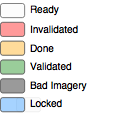
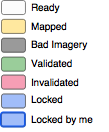
new legend

diff --git a/client/app/services/style.service.js b/client/app/services/style.service.js
@@ -25,10 +25,11 @@
         });
 
         var FILL_COLOUR_READY = [223, 223, 223, 0.1];//very light grey, 0.1 opacity
-        var FILL_COLOUR_INVALIDATED = [255, 0, 0, 0.4];//red, 0.4 opacity
-        var FILL_COLOUR_MAPPED = [255, 165, 0, 0.4];//orange, 0.4 opacity
+        var FILL_COLOUR_INVALIDATED = [233, 11, 67, 0.4];//red, 0.4 opacity
+        var FILL_COLOUR_MAPPED = [255, 198, 12, 0.4];//orange, 0.4 opacity
         var FILL_COLOUR_VALIDATED = [0, 128, 0, 0.4];//green, 0.4 opacity
-        var FILL_COLOUR_LOCKED = [30, 144, 255, 0.4];//blue, 0.4 opacity
+        var FILL_COLOUR_LOCKED_FOR_MAPPING = [18, 89, 240, 0.4];//blue, 0.4 opacity
+        var FILL_COLOUR_LOCKED_FOR_VALIDATION = [18, 89, 240, 0.4];//blue, 0.4 opacity
         var FILL_COLOUR_BADIMAGERY = [0, 0, 0, 0.4];//black, 0.4 opacity
 
         var STROKE_COLOUR = [84, 84, 84, 0.7];//grey, 0.7 opacity
@@ -67,8 +68,11 @@
             // calculate the fill colour and opacity settings based on status, use rgba because this is the way to
             // set opacity in OL3, but also better for cross browser than named colors
             var fillColor = null;
-            if (status === 'LOCKED_FOR_MAPPING' || status === 'LOCKED_FOR_VALIDATION') {
-                fillColor = FILL_COLOUR_LOCKED;
+            if (status === 'LOCKED_FOR_MAPPING') {
+                fillColor = FILL_COLOUR_LOCKED_FOR_MAPPING;
+            }
+            else if (status === 'LOCKED_FOR_VALIDATION') {
+                fillColor = FILL_COLOUR_LOCKED_FOR_VALIDATION;
             }
             else if (status === 'READY') {
                 fillColor = FILL_COLOUR_READY;
@@ -125,10 +129,10 @@
         function getLockedByCurrentUserTaskStyle() {
             return new ol.style.Style({
                 fill: new ol.style.Fill({
-                    color: [30, 144, 255, 0]
+                    color: [18, 89, 240, 0]
                 }),
                 stroke: new ol.style.Stroke({
-                    color: [30, 144, 255, 1],
+                    color: [18, 89, 240, 1],
                     width: 4
                 })
             });

diff --git a/client/app/project/project.html b/client/app/project/project.html
@@ -641,7 +641,7 @@
             </div>
             <div id="map" class="map-container">
                 <div class="mapping-legend">
-                    <img src="./assets/img/legend.png" width="121px" height="122px"/>
+                    <img src="./assets/img/legend.png" width="109px" height="132px"/>
                 </div>
                 <div class="project-title">
                     <h2 class="section__title">
